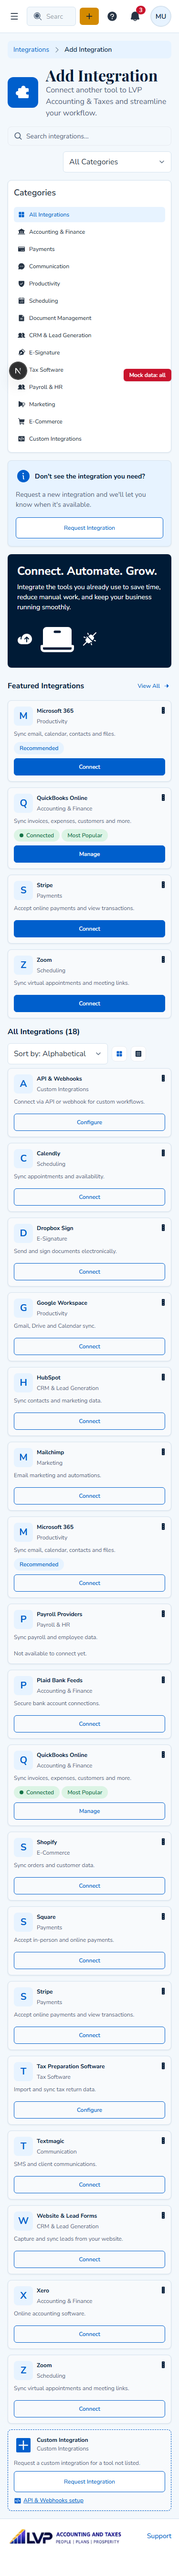
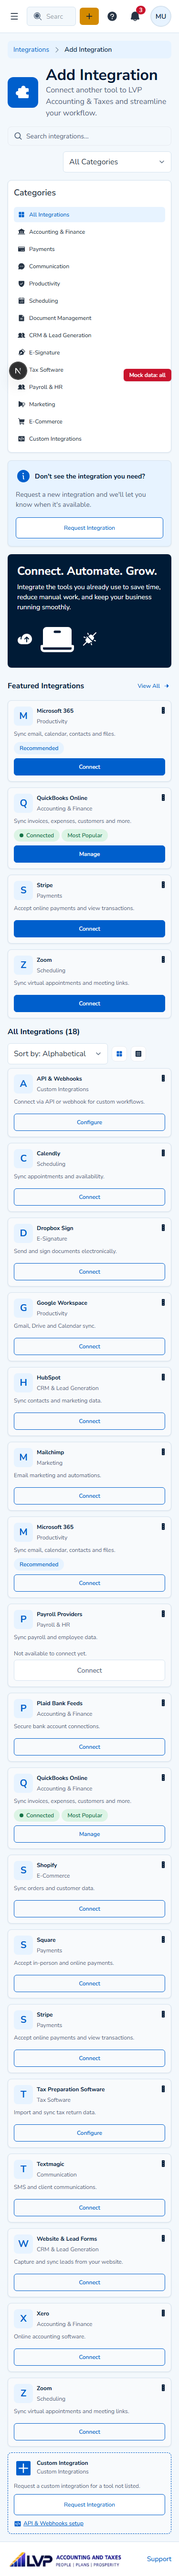
docs: update marketplace font and card action review evidence

diff --git a/apps/web/src/app/firm/(workspace)/integrations/marketplace/_components/review/README.md b/apps/web/src/app/firm/(workspace)/integrations/marketplace/_components/review/README.md
@@ -42,3 +42,18 @@ Reference: `docs/mockups/firm-workspace/integrations/source/add-integration-mark
 - Repository lint and typecheck passed sequentially: `pnpm exec turbo run lint typecheck --concurrency=1` (16 successful tasks, with pre-existing warnings elsewhere). This completed before the final main merge; CI must validate the combined head as usual.
 - Latest main was merged without conflicts. The page's changed paths remain separate from the first-page PR and other owners' paths.
 - The request-modal screenshot uses 1440 x 1100 so its heading and form fields are visible together; the form scenario passed again at that viewport.
+
+## Manual review corrections
+
+- Add Integration now uses the shared sans font token locally, matching the site's body/other
+  workspace headings. The shared PageHeader and other pages are unchanged.
+- Featured cards, catalog cards and the details modal share one MarketplaceAction component.
+- Unavailable or permission-restricted providers retain a visible, labelled disabled
+  Connect/Configure button with an accessible explanation. Available providers keep their
+  active links; existing connections keep Manage. The API availability/permission flags are
+  respected rather than overridden.
+- Help text precedes disabled buttons so active/disabled action rows align at the card bottom.
+- Validation: 9 focused mock tests, 1 real-API smoke test, web TypeScript and changed-file
+  ESLint pass. The catalog and unavailable-provider tests were repeated after the final
+  alignment adjustment. New synthetic desktop/mobile and unavailable-provider evidence is
+  saved alongside this file.
